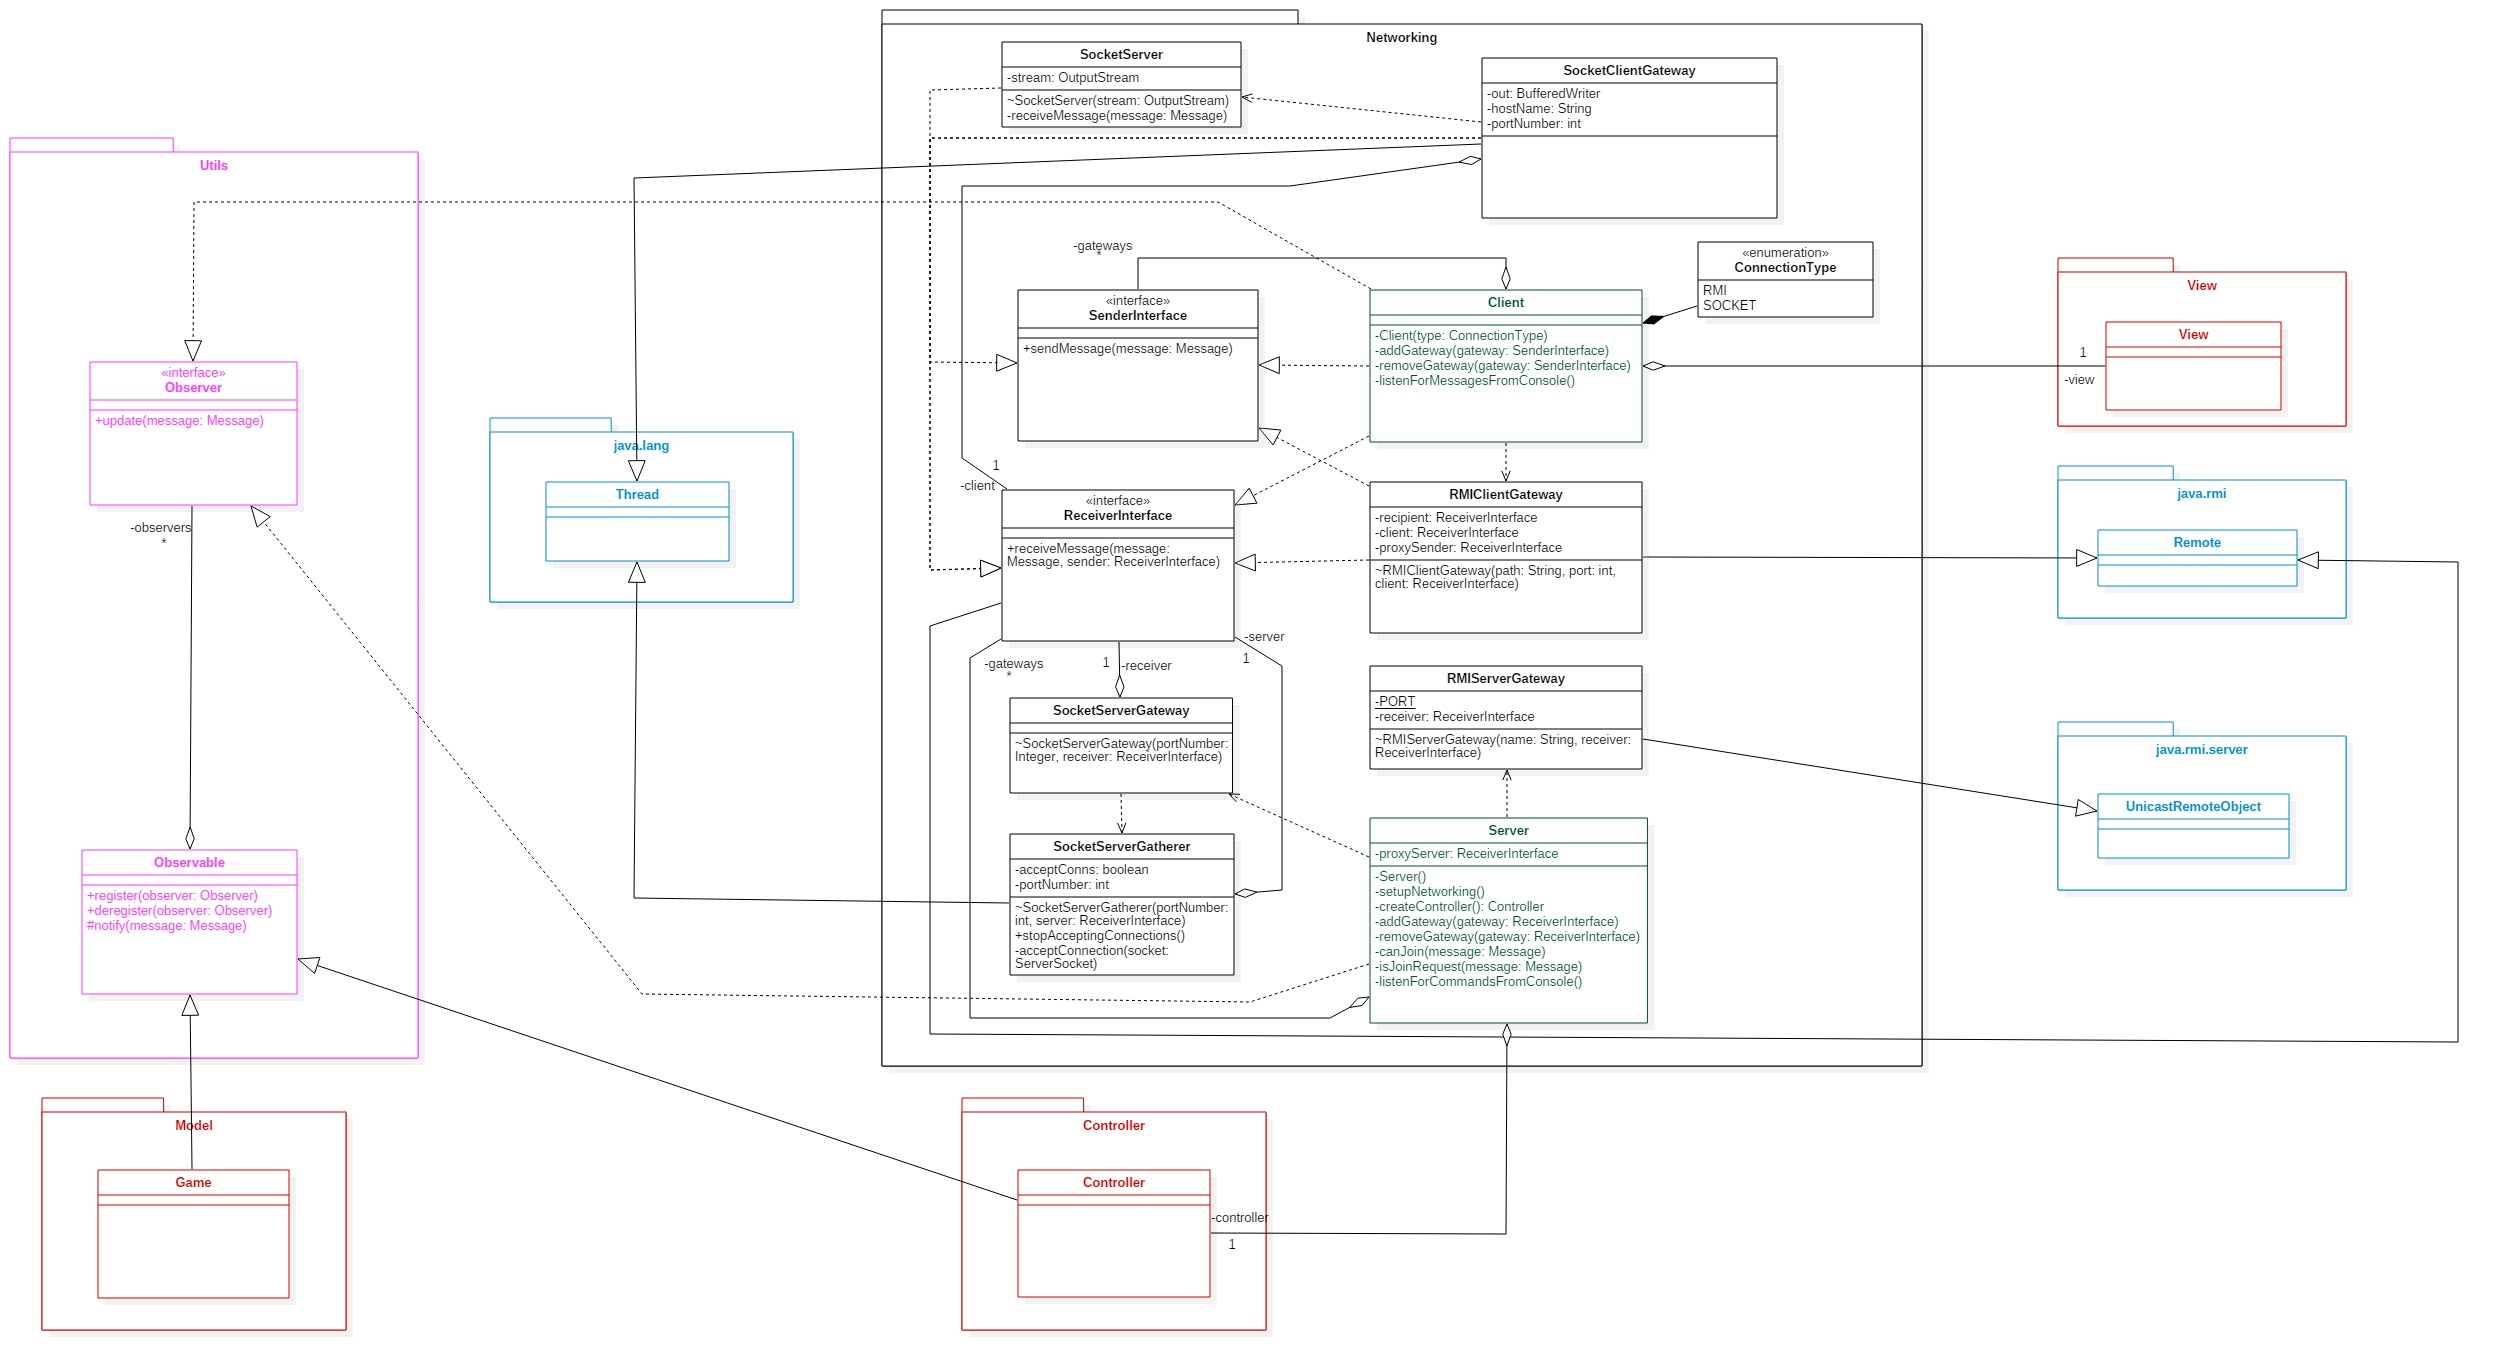
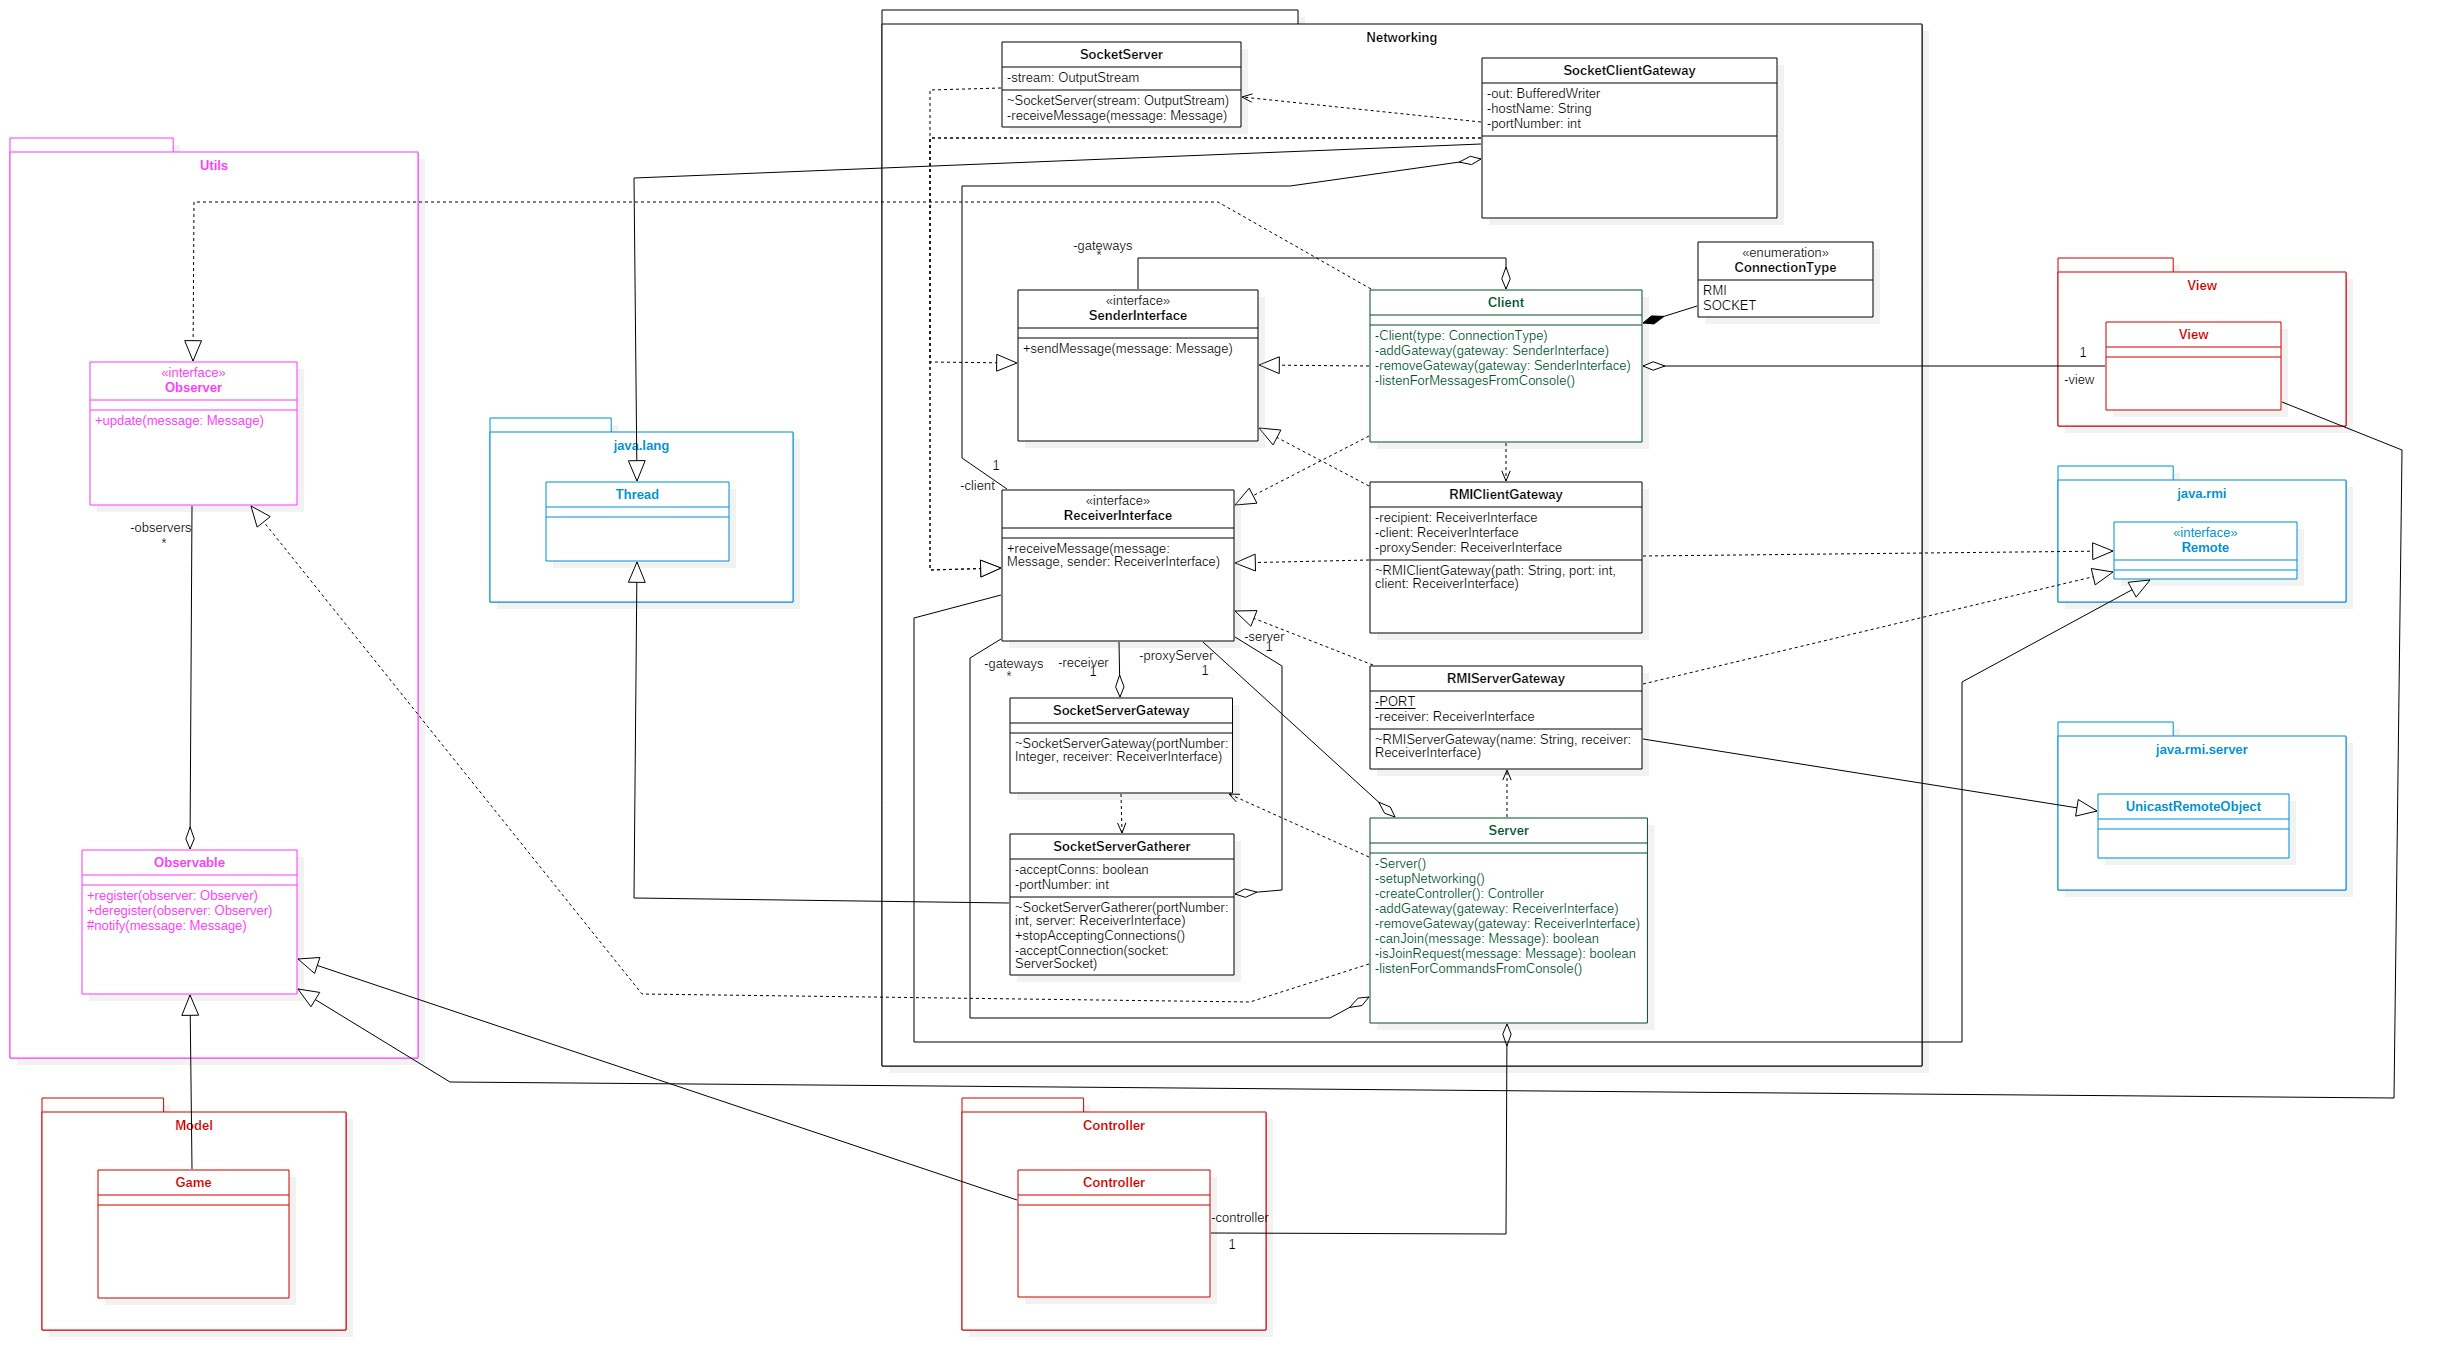
Update UML networking delivery
+Fix minor errors in View and SocketServerGatherer

diff --git a/src/main/java/it/polimi/se2018/networking/SocketServerGatherer.java b/src/main/java/it/polimi/se2018/networking/SocketServerGatherer.java
@@ -10,7 +10,7 @@ public class SocketServerGatherer extends Thread{
     private boolean acceptConns = true;
     private int portNumber;
 
-    public SocketServerGatherer(Integer portNumber, ReceiverInterface server) {
+    SocketServerGatherer(Integer portNumber, ReceiverInterface server) {
 
         this.server = server;
         this.portNumber = portNumber;

diff --git a/src/main/java/it/polimi/se2018/view/View.java b/src/main/java/it/polimi/se2018/view/View.java
@@ -4,7 +4,7 @@ import it.polimi.se2018.model.Player;
 import it.polimi.se2018.utils.Observable;
 import it.polimi.se2018.utils.Observer;
 
-public abstract class View extends Observable implements Observer {
+public abstract class View extends Observable {
 
     private Player player;
 
